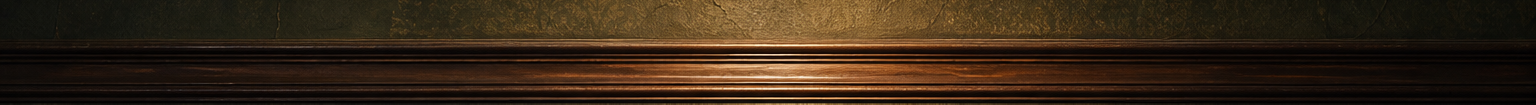
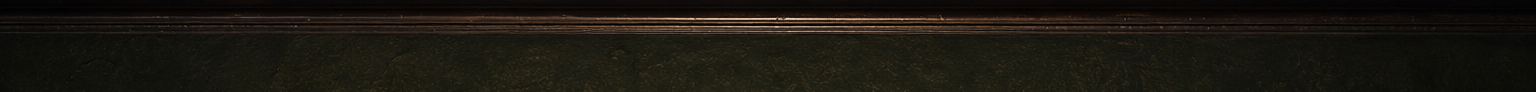
Swap Victorian hero mouldings: bottom rail under nav, top rail at base.
The picture rail was cropped from the wrong strip — now uses the thick
baseboard moulding from the source wall (flipped flush under nav), with
the thin top moulding moved to a new baseboard at the hero bottom and
the wall photo cropped to moss only.

diff --git a/website/src/app/globals.css b/website/src/app/globals.css
@@ -172,7 +172,7 @@ body {
   box-shadow: inset 0 -1px 0 color-mix(in srgb, var(--color-ink) 6%, transparent);
 }
 
-/* Picture rail — ornate strip flush under nav; moss wall starts below. */
+/* Picture rail — bottom moulding from source, flipped; flush under nav. */
 .hero-picture-rail {
   position: relative;
   z-index: 40;
@@ -187,6 +187,21 @@ body {
   background-repeat: no-repeat;
   background-size: 100% 100%;
   background-position: center top;
+}
+
+/* Baseboard — top moulding from source, flipped to the bottom edge. */
+.hero-baseboard-rail {
+  position: absolute;
+  inset-inline: 0;
+  bottom: 0;
+  z-index: 3;
+  height: clamp(10px, 1.2vh, 18px);
+  pointer-events: none;
+  background-color: #160f08;
+  background-image: url(/agent-cast/victorian-baseboard-rail.png);
+  background-repeat: no-repeat;
+  background-size: 100% 100%;
+  background-position: center bottom;
 }
 
 .hero-nav-band__inner {
@@ -220,13 +235,11 @@ body {
   );
 }
 
-/* The generated Victorian study wall photo IS the wall — full-bleed cover.
-   PNG is cropped below the baked-in rail; moss starts at the top edge. */
+/* Victorian moss wall — cropped clean of both mouldings; full-bleed cover. */
 .hero-victorian-wall__bg {
   z-index: 0;
   object-fit: cover;
   object-position: center top;
-  transform: scaleY(-1);
 }
 
 .hero-immersive-room .hero-victorian-wall__bg {

diff --git a/website/src/components/Hero.tsx b/website/src/components/Hero.tsx
@@ -34,6 +34,9 @@ export function Hero() {
         <FoundingCastHero />
       </div>
 
+      {/* Baseboard rail — thin top moulding swapped to the bottom of the wall. */}
+      <div className="hero-baseboard-rail" aria-hidden />
+
       <h1 className="sr-only">The AI Adoption Operating System</h1>
       {/* Visible page heading — lower-right on the wall, two lines. */}
       <p className="hero-wall-headline font-display" aria-hidden="true">
